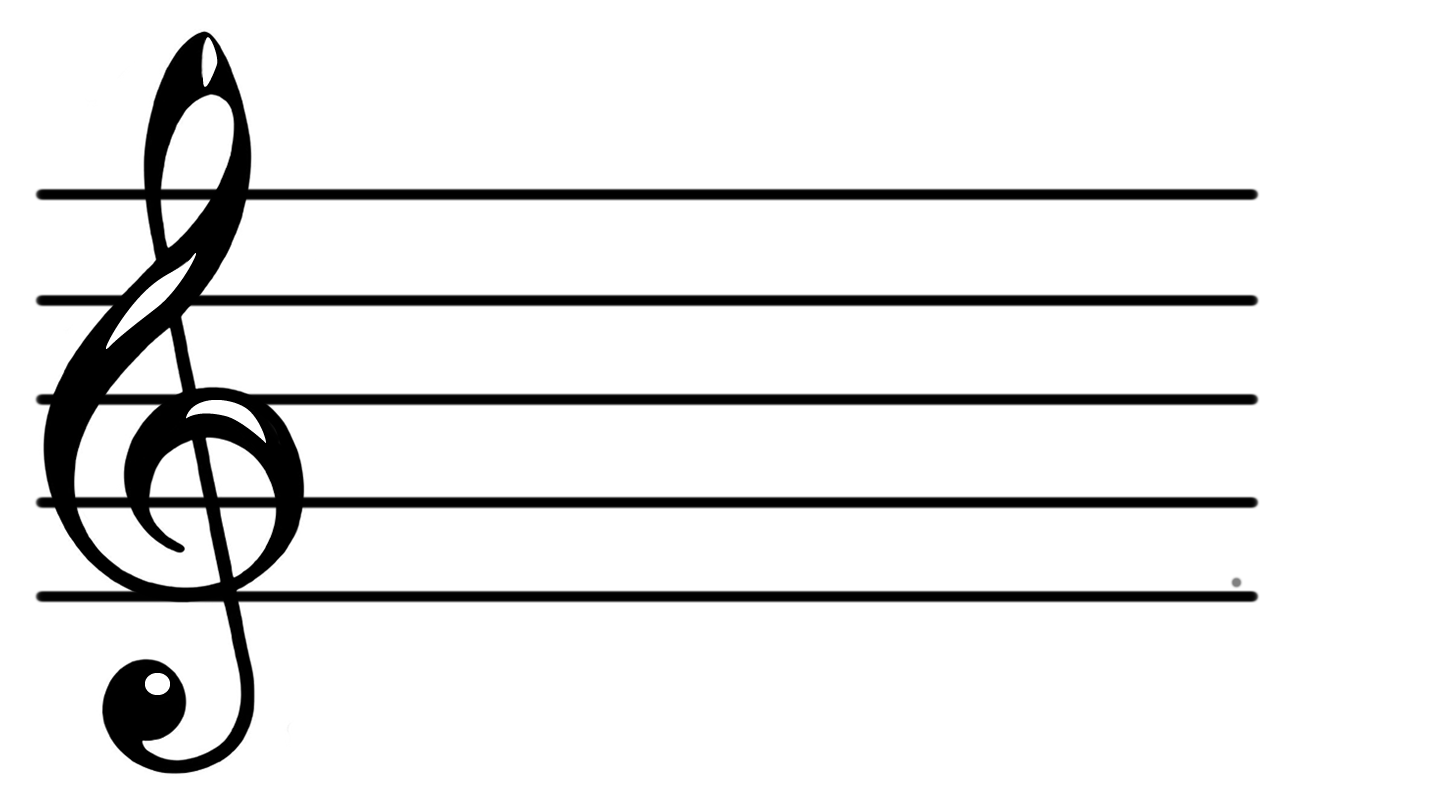
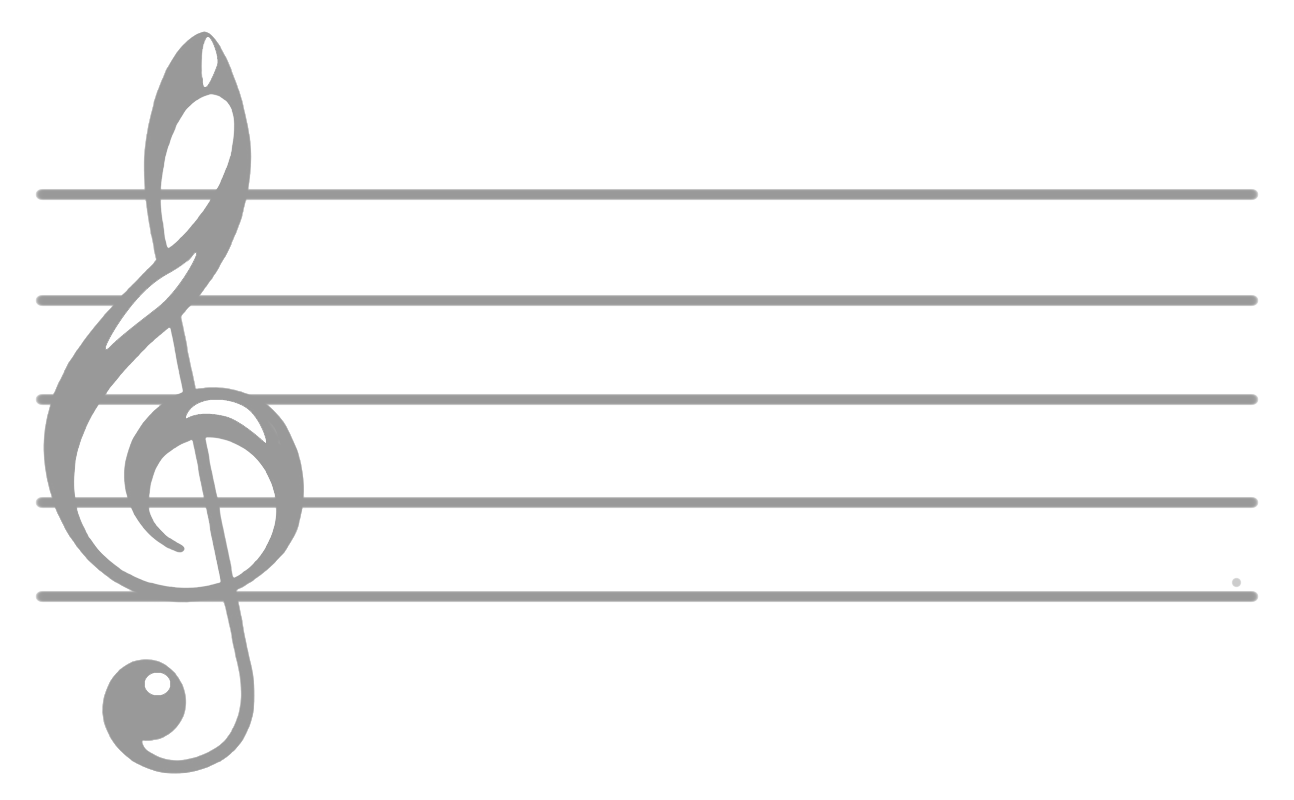
Se modifican detalles de la seccion B#Team, la imagen de Clave de Sol se desvanece al 50% para permitir mejor lectura. Tambien se centra y se hace responsive.

Changed region(s): [[0.0309, 0.0312, 0.9892, 0.9688]]

diff --git a/web/css/style.css b/web/css/style.css
@@ -447,6 +447,8 @@ img { border: 0; max-width: 100%; }
 	text-align: center;
 	background: url("../images/bg-bteam.png");
 	background-repeat: no-repeat;
+	background-position: center;
+	background-size: contain;
 }
 .images_1_of_4 h4 {
 	color: #4E525D;
